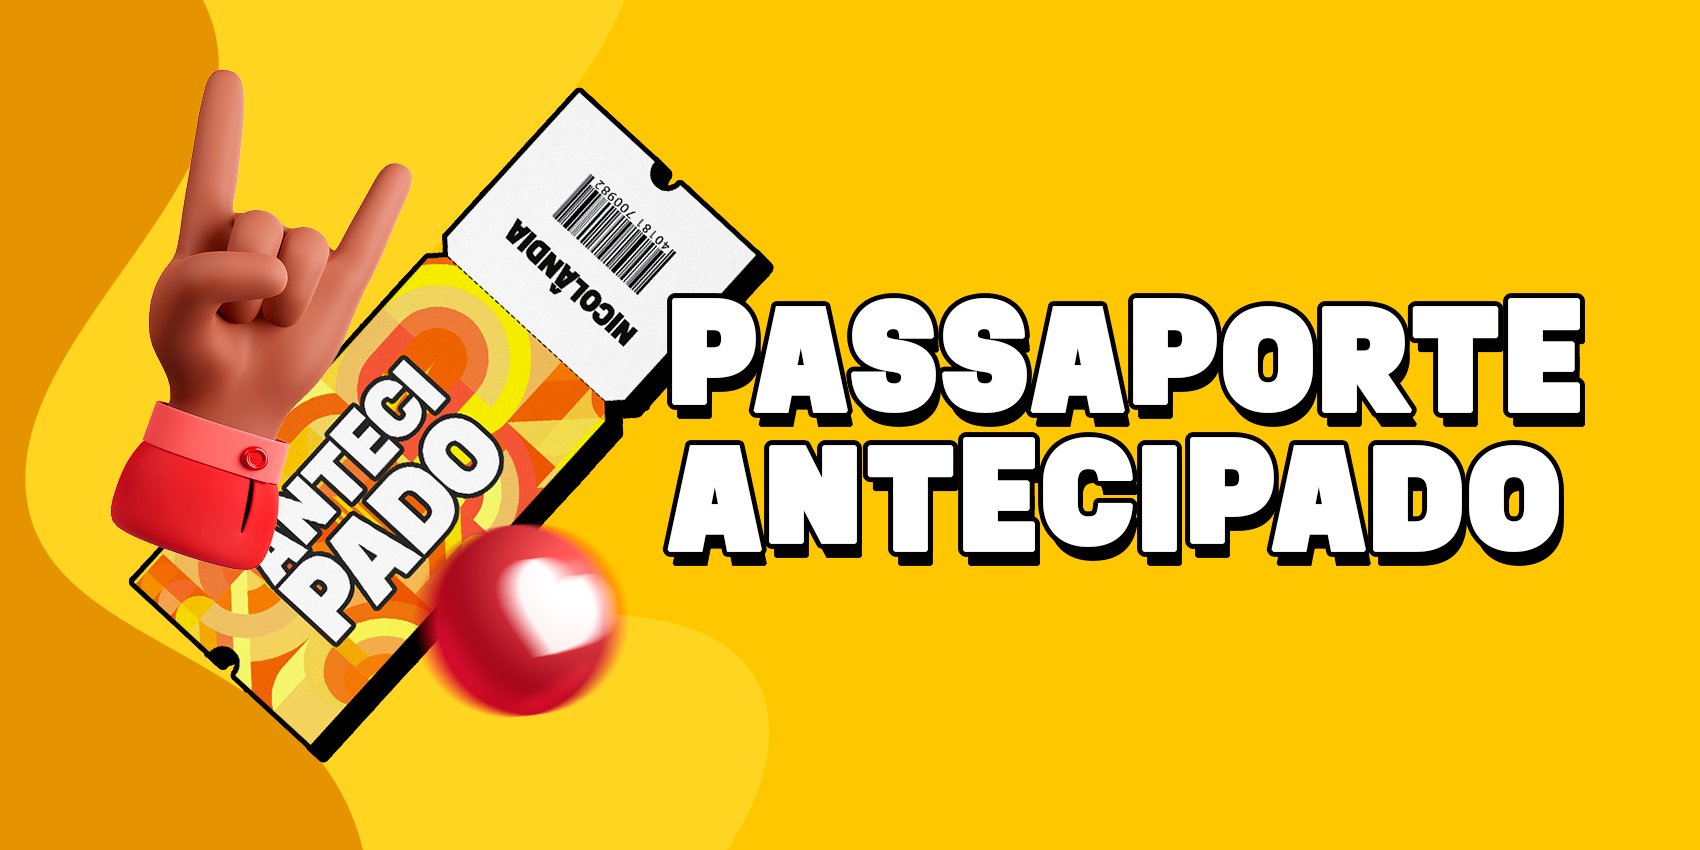
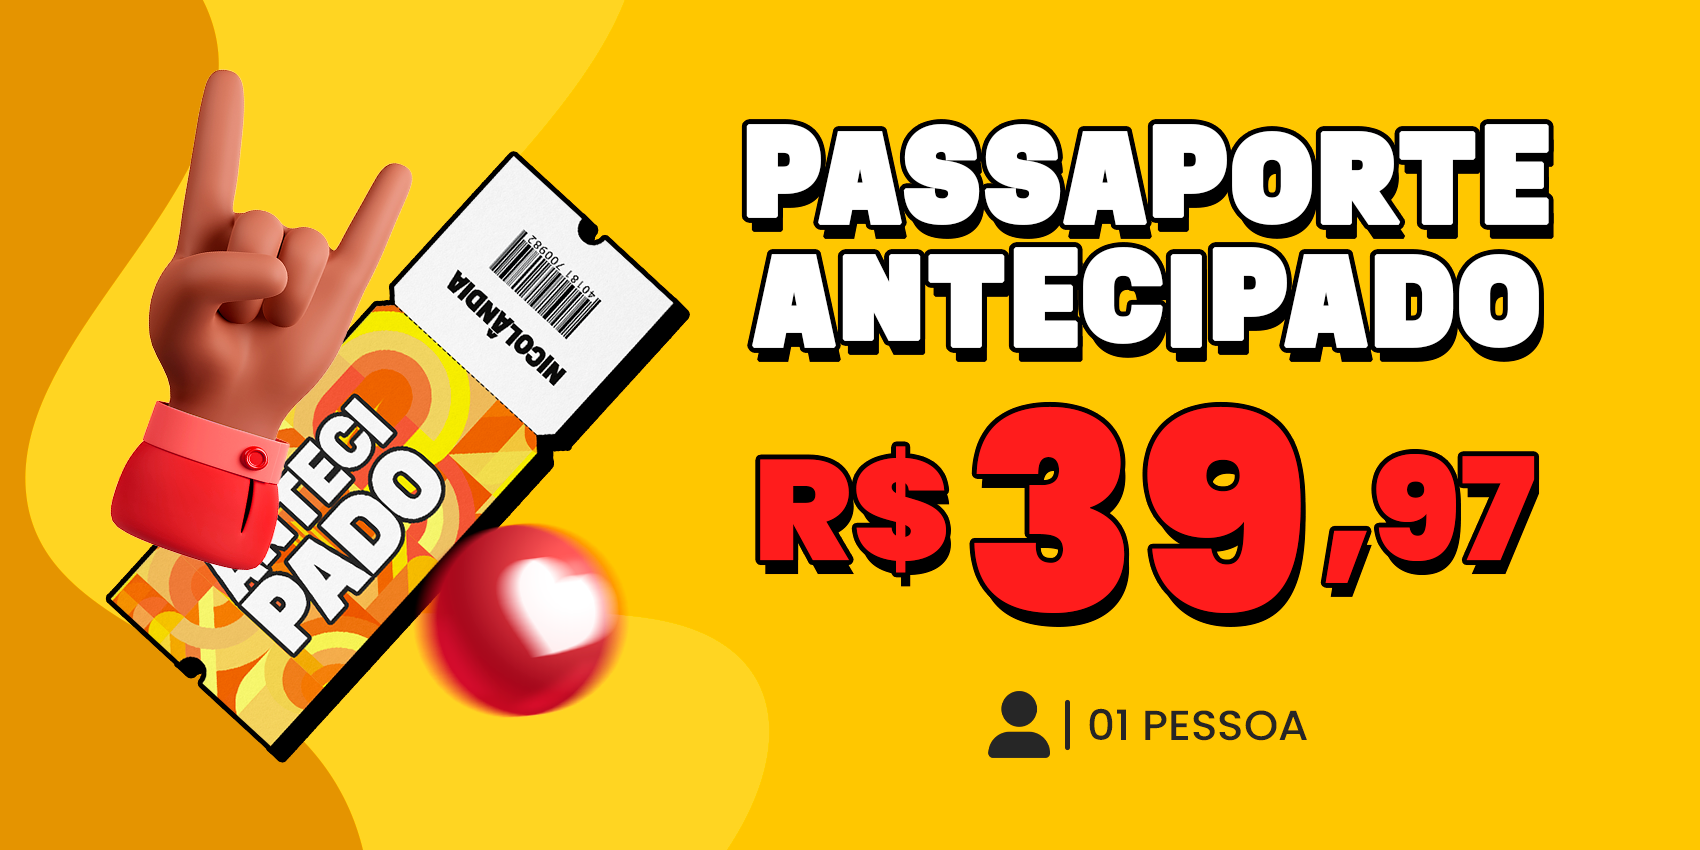
ticket page without covenants

diff --git a/src/pages/ingressos.tsx b/src/pages/ingressos.tsx
@@ -1,0 +1,167 @@
+import Footer from '@/components/Footer'
+import Navbar from '@/components/Navbar'
+import PassaporteAntecipado from '@/public/images/tickets/antecipado.png'
+import PassaporteEncantado from '@/public/images/tickets/encantado.png'
+import PassaporteEspetacular from '@/public/images/tickets/espetacular.png'
+import PassaporteIndividual from '@/public/images/tickets/individual.png'
+import Passaporte from '@/public/images/tickets/ticket.png'
+import Head from 'next/head'
+import Image from 'next/image'
+import Link from 'next/link'
+import { FaChevronRight } from 'react-icons/fa'
+
+export default function TicketsPage() {
+  const today = new Date()
+  return (
+    <>
+      <Head>
+        <title>Nova Nicolândia - Ingressos e Convênios</title>
+        <meta
+          name="description"
+          content="Passaportes individuais, Combos, diversão e muito mais. A Nova Nicolândia é referência em levar alegria e diversão para todo o Distrito Federal e traz benefícios exclusivos para advogados e conveniados da OAB-DF e CAA-DF. Venha e apaixone-se!"
+        />
+      </Head>
+
+      <Navbar />
+
+      <section className="bg-gray-200 py-8">
+        <div className="container">
+          <h1 className="text-blue-100 font-black text-center text-3xl md:text-4xl xl:text-5xl leading-tight mb-10">
+            Compre seus ingressos <br className="hidden md:block" /> com mais praticidade!
+          </h1>
+
+          <div className="grid grid-cols-1 md:grid-cols-2 lg:grid-cols-3 gap-5">
+            {today.getDay() > 1 && today.getDay() < 6 ? (
+              <div className="relative p-5 rounded-t-2xl overflow-hidden">
+                <Image src={Passaporte} alt="" fill className="object-cover object-bottom" />
+                <div className="relative z-10">
+                  <div>
+                    <Image
+                      src={PassaporteAntecipado}
+                      alt="Passaporte Antecipado, 1 pessoa por 39.97 reais"
+                      className="rounded-2xl"
+                    />
+                  </div>
+                  <div className="text-center py-8">
+                    <h2 className="text-red text-2xl font-bold">Passaporte Antecipado</h2>
+
+                    <ul className="py-5 space-y-2 text-blue-100">
+                      <li className="text-sm">VÁLIDO SOMENTE PARA COMPRAS ONLINE.</li>
+                      <li className="text-sm">VÁLIDO DE SEXTA A DOMINGO OU FERIADOS.</li>
+                      <li className="text-sm">
+                        VÁLIDO SOMENTE DENTRO DO CALENDÁRIO OPERACIONAL DO PARQUE.
+                      </li>
+                    </ul>
+
+                    <Link
+                      target="_blank"
+                      href="https://pague.yuupe.com/produtos/7"
+                      className="px-7 py-3 bg-red rounded-md flex justify-center items-center gap-3 text-light font-bold tracking-wide"
+                    >
+                      Comprar <FaChevronRight />
+                    </Link>
+                  </div>
+                </div>
+              </div>
+            ) : (
+              <div className="relative p-5 rounded-t-2xl overflow-hidden">
+                <Image src={Passaporte} alt="" fill className="object-cover object-bottom" />
+                <div className="relative z-10">
+                  <div>
+                    <Image
+                      src={PassaporteIndividual}
+                      alt="Passaporte Individual, 1 pessoa por 59.97 reais"
+                      className="rounded-2xl"
+                    />
+                  </div>
+                  <div className="text-center py-8">
+                    <h2 className="text-red text-2xl font-bold">Passaporte Individual</h2>
+
+                    <ul className="py-5 space-y-2 text-blue-100">
+                      <li className="text-sm">VÁLIDO SOMENTE PARA COMPRAS ONLINE.</li>
+                      <li className="text-sm">VÁLIDO DE SEXTA A DOMINGO OU FERIADOS.</li>
+                      <li className="text-sm">
+                        VÁLIDO SOMENTE DENTRO DO CALENDÁRIO OPERACIONAL DO PARQUE.
+                      </li>
+                    </ul>
+
+                    <Link
+                      target="_blank"
+                      href="https://pague.yuupe.com/produtos/2"
+                      className="px-7 py-3 bg-red rounded-md flex justify-center items-center gap-3 text-light font-bold tracking-wide"
+                    >
+                      Comprar <FaChevronRight />
+                    </Link>
+                  </div>
+                </div>
+              </div>
+            )}
+
+            <div className="relative p-5 rounded-t-2xl overflow-hidden">
+              <Image src={Passaporte} alt="" fill className="object-cover object-bottom" />
+              <div className="relative z-10">
+                <div>
+                  <Image
+                    src={PassaporteEncantado}
+                    alt="Passaporte Encantado, 2 pessoa por 109.97 reais"
+                    className="rounded-2xl"
+                  />
+                </div>
+                <div className="text-center py-8">
+                  <h2 className="text-red text-2xl font-bold">Passaporte Encantado</h2>
+
+                  <ul className="py-5 space-y-2 text-blue-100">
+                    <li className="text-sm">VÁLIDO SOMENTE PARA COMPRAS ONLINE.</li>
+                    <li className="text-sm">VÁLIDO DE SEXTA A DOMINGO OU FERIADOS.</li>
+                    <li className="text-sm">
+                      VÁLIDO SOMENTE DENTRO DO CALENDÁRIO OPERACIONAL DO PARQUE.
+                    </li>
+                  </ul>
+
+                  <Link
+                    href="https://pague.yuupe.com/produtos/3"
+                    className="px-7 py-3 bg-red rounded-md flex justify-center items-center gap-3 text-light font-bold tracking-wide"
+                  >
+                    Comprar <FaChevronRight />
+                  </Link>
+                </div>
+              </div>
+            </div>
+
+            <div className="relative p-5 rounded-t-2xl overflow-hidden">
+              <Image src={Passaporte} alt="" fill className="object-cover object-bottom" />
+              <div className="relative z-10">
+                <div>
+                  <Image
+                    src={PassaporteEspetacular}
+                    alt="Passaporte Espetacular, 3 pessoa por 149.97 reais"
+                    className="rounded-2xl"
+                  />
+                </div>
+                <div className="text-center py-8">
+                  <h2 className="text-red text-2xl font-bold">Passaporte Espetacular</h2>
+
+                  <ul className="py-5 space-y-2 text-blue-100">
+                    <li className="text-sm">VÁLIDO SOMENTE PARA COMPRAS ONLINE.</li>
+                    <li className="text-sm">VÁLIDO DE SEXTA A DOMINGO OU FERIADOS.</li>
+                    <li className="text-sm">
+                      VÁLIDO SOMENTE DENTRO DO CALENDÁRIO OPERACIONAL DO PARQUE.
+                    </li>
+                  </ul>
+
+                  <Link
+                    href="https://pague.yuupe.com/produtos/4"
+                    className="px-7 py-3 bg-red rounded-md flex justify-center items-center gap-3 text-light font-bold tracking-wide"
+                  >
+                    Comprar <FaChevronRight />
+                  </Link>
+                </div>
+              </div>
+            </div>
+          </div>
+        </div>
+      </section>
+      <Footer />
+    </>
+  )
+}

diff --git a/src/components/Passaports.tsx b/src/components/Passaports.tsx
@@ -2,6 +2,7 @@ import Passaport from '@/components/Passaport'
 import PassaporteAntecipado from '@/public/images/tickets/antecipado.png'
 import PassaporteEncantado from '@/public/images/tickets/encantado.png'
 import PassaporteEspetacular from '@/public/images/tickets/espetacular.png'
+import PassaporteIndividual from '@/public/images/tickets/individual.png'
 import Link from 'next/link'
 import { BsChevronRight } from 'react-icons/bs'
 import SwiperCore, { Autoplay } from 'swiper'
@@ -9,6 +10,7 @@ import { Swiper, SwiperSlide } from 'swiper/react'
 SwiperCore.use([Autoplay])
 
 export default function Passaports() {
+  const today = new Date()
   return (
     <section>
       <div className="container mx-auto py-8">
@@ -24,15 +26,27 @@ export default function Passaports() {
         </div>
         <Swiper spaceBetween={20} slidesPerView="auto" autoplay={{ delay: 3000 }}>
           <SwiperSlide className="max-w-[600px]">
-            <Passaport
-              price={39.97}
-              amount={1}
-              name="Passaporte Antecipado"
-              background="yellow"
-              image={PassaporteAntecipado}
-              href="https://pague.yuupe.com/produtos/7"
-            />
+            {today.getDay() > 1 && today.getDay() < 6 ? (
+              <Passaport
+                price={39.97}
+                amount={1}
+                name="Passaporte Antecipado"
+                background="yellow"
+                image={PassaporteAntecipado}
+                href="https://pague.yuupe.com/produtos/7"
+              />
+            ) : (
+              <Passaport
+                price={39.97}
+                amount={1}
+                name="Passaporte Individual"
+                background="yellow"
+                image={PassaporteIndividual}
+                href="https://pague.yuupe.com/produtos/2"
+              />
+            )}
           </SwiperSlide>
+
           <SwiperSlide className="max-w-[600px]">
             <Passaport
               price={109.97}

diff --git a/src/components/Navbar.tsx b/src/components/Navbar.tsx
@@ -15,7 +15,7 @@ export default function Navbar() {
     <nav className="bg-light py-5">
       <div className="container relative flex items-center justify-between lg:justify-start">
         <Link href="/" title="Ir para home">
-          <Image className="w-24" src={NicolandiaRed} alt="Nicolândia" />
+          <Image className="w-16 lg:w-24" src={NicolandiaRed} alt="Nicolândia" />
         </Link>
 
         <button
@@ -30,11 +30,11 @@ export default function Navbar() {
             showMenu ? 'block' : 'hidden'
           }`}
         >
-          <ul className="space-y-3 lg:flex lg:items-center lg:space-y-0 lg:space-x-5 lg:ml-5">
+          <ul className="space-y-3 lg:flex lg:items-center lg:space-y-0 lg:space-x-5 lg:ml-10">
             <li>
               <Link
                 title="Passaportes"
-                href="/#passaportes"
+                href="/ingressos"
                 className="text-red font-bold tracking-wider"
               >
                 Passaportes
